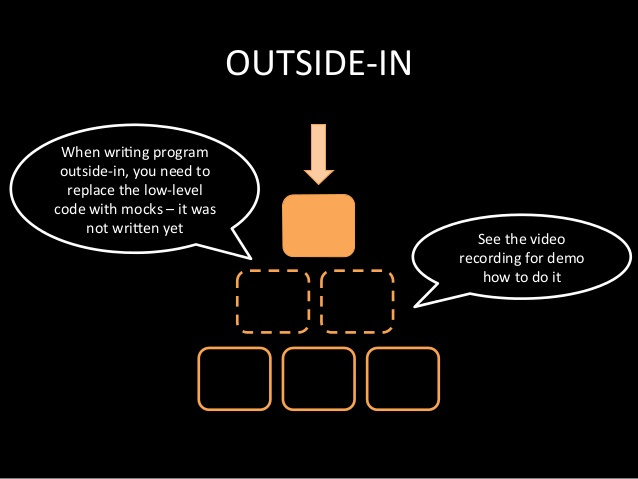
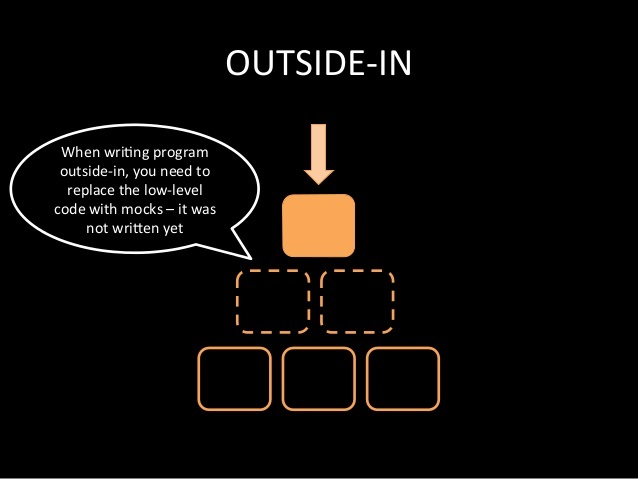
made slides for tdd great again

diff --git a/markdown/tdd.md b/markdown/tdd.md
@@ -1,11 +1,10 @@
 # Test Driven Development
 
-Do kommt noch e Folie zu test first
-
 note: 
-- Software Entwicklungs Prozess
-- Besteht nicht nur aus Test zu erst schreiben -> Das ist Test First
-- Designstrategie
+- Um die eben genannten Probleme zu lösen wurde ein neuer Ansatz gesucht
+- Erst alle Tests, dann die Klasse
+- Unterschied zum klassischen Test -> Design
+- Welche Antworten will ich haben? vs. Welche Fragen stelle ich?
 
 --
 
@@ -17,9 +16,8 @@ note:
 [https://improuv.com/blog/daniel-zappold/tdd-so-einfach-und-doch-so-schwer](https://improuv.com/blog/daniel-zappold/tdd-so-einfach-und-doch-so-schwer)
 
 note: 
-1) Write a Test -> Was soll meine Komponente machen -> Unterschied zum klassischen Unit Test
-2) Make the Test pass -> Implementierung der Komponente
-3) Refactor
+- Für Agile Softwareentwicklung 
+- Zyklus sorgt dafür das keine unnötigen Funktionen implementiert werden
 
 --
 
@@ -32,8 +30,9 @@ note:
 3) You can't write more production code than is sufficient to pass the currently failing unit test. <!-- .element: class="fragment" height="100px"-->
 
 note: 
-Hier sollen die Regeln nacheinander angezeigt werden
-Fehler werden automatisch aufgedeckt
+- 1 überlegen warum ich überhaupt eine funktion benötige
+- 2 nicht über mehr als eine funktion gleichzeitig nachdenken
+- 3 stellt sicher das kein unnötiger Code geschrieben wird
 
 --
 
@@ -79,15 +78,11 @@ Fehler werden automatisch aufgedeckt
 
 ---
 
-# Pattern
-
-note: 
-- Testbarer Code
-- Entwicklung Bottom Up, Top-Down
+# Ansätze
 
 --
 
-## Top-Down TDD
+## Outside-In TDD
 
 ![top down](../img/tdd-outside-in.jpg)
 
@@ -95,8 +90,8 @@ note:
 [https://image.slidesharecdn.com/tddcommented-130125160145-phpapp01/95/tdd-outsidein-6-638.jpg?cb=1383700832](https://image.slidesharecdn.com/tddcommented-130125160145-phpapp01/95/tdd-outsidein-6-638.jpg?cb=1383700832)
 
 note: 
-System analysieren?
-Was soll mein System machen?
+- Entwicklung von Nutzungsebene ab
+- Mocks werden sehr oft benötigt
 
 --
 
@@ -108,17 +103,16 @@ Was soll mein System machen?
 [https://image.slidesharecdn.com/tddcommented-130125160145-phpapp01/95/tdd-outsidein-4-638.jpg?cb=1383700832](https://image.slidesharecdn.com/tddcommented-130125160145-phpapp01/95/tdd-outsidein-4-638.jpg?cb=1383700832)
 
 note:
-Einzelne Komponenten des Systems beschreiben. 
-Am Ende zusammensetzen.
-Evolutionäres Prototyping?
+- Beginn bei Datenmodelierungsebene
+- Keine Mocks benötigt
 
 ---
 
 # Praktische Erfahrungen
 
-- Wie strikt wird TDD eingehalten?
-- Aller Anfang ist schwer
-- 
+- Wie strikt wird TDD eingehalten?<!-- .element: class="fragment" -->
+- Aller Anfang ist schwer<!-- .element: class="fragment" -->
+- Erfahrungen IBM <!-- .element: class="fragment" -->
 
 note: 
 - TDD gegen nicht testen 
@@ -136,9 +130,16 @@ note:
 
 # Ergebnisse und Probleme
 
+- Anforderungen werden verstanden<!-- .element: class="fragment" -->
+- Keine unnötigen Funktionen werden implementiert <!-- .element: class="fragment" -->
+- Jede Zeile Code ist getestet <!-- .element: class="fragment" -->
+- BDD <!-- .element: class="fragment" -->
+
 note: 
-- Was ist eine Unit?
 - Anforderungen werden verstanden
-- Anfang ist schwer, Neue Frameworks extrem schwer
 - BDD
+* Erweiterung von TDD
+* Tests für Kunden verständlich sein
+* Kunde beschreibt Feature
+* In TDD wird aus Feature abgeleitetes Szenario in Testfall umgewandelt
 - Unit Tests helfen bei der Dokumentation, indem sie beabsichtigte Verwendungen und Reaktionen aufzeigen

diff --git a/markdown/quellen.md b/markdown/quellen.md
@@ -3,3 +3,4 @@ https://www.it-agile.de/wissen/agiles-engineering/unit-tests/
 https://www.blinkingcaret.com/2016/04/27/what-exactly-is-a-unit-in-unit-testing/
 http://www.softwaretestinghelp.com/what-is-end-to-end-testing/
 https://gojko.net/2015/02/25/how-to-get-the-most-out-of-given-when-then/
+http://butunclebob.com/ArticleS.UncleBob.TheThreeRulesOfTdd
